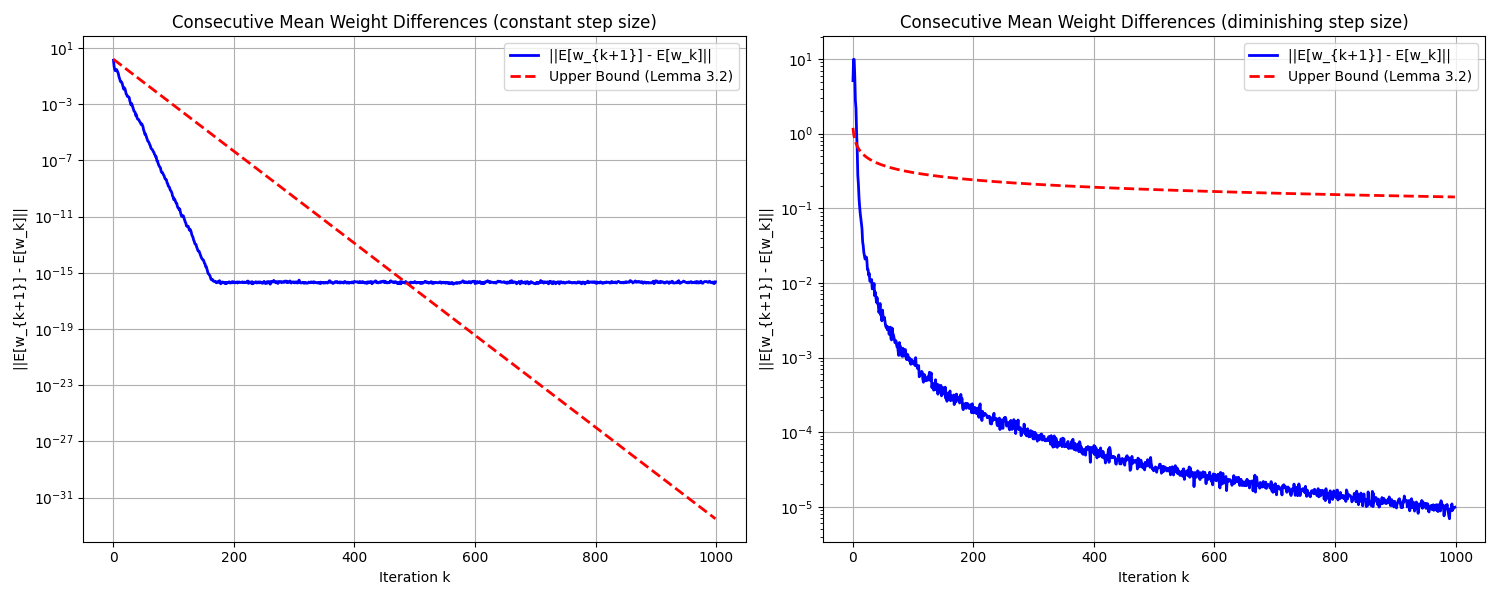
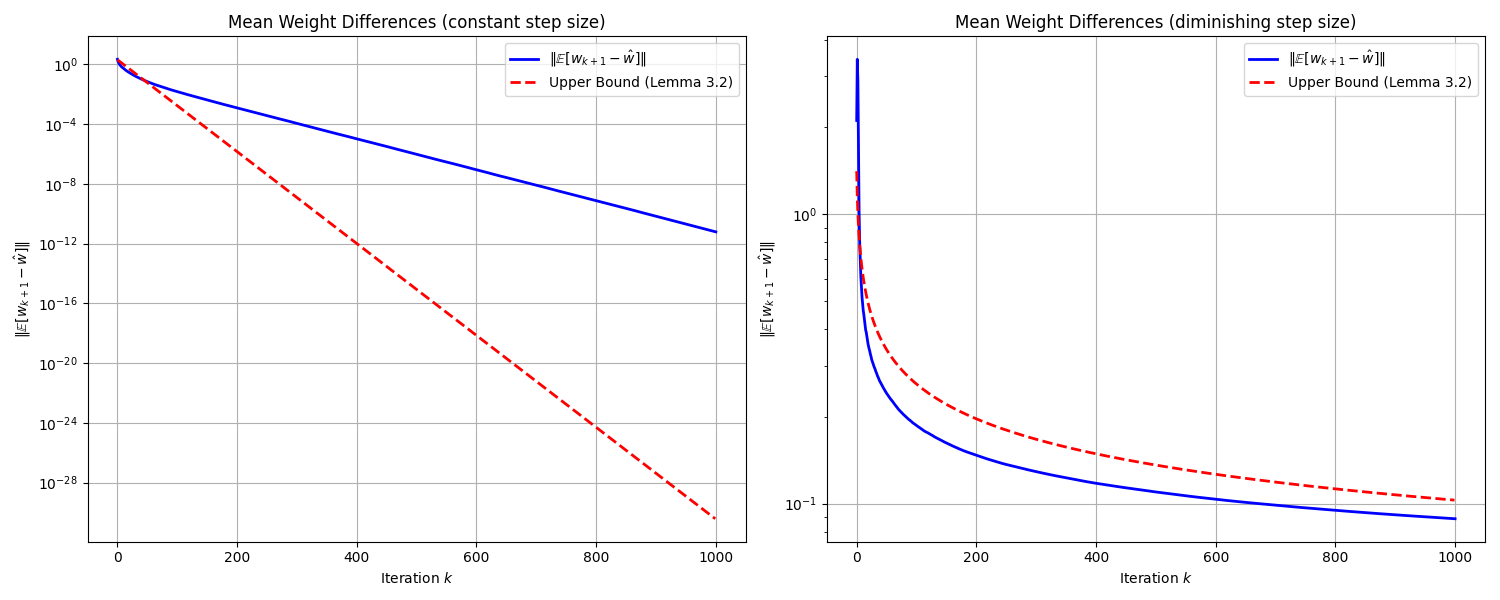
Implemented the second moment, and fixed some bugs with the first moment implementation

diff --git a/simulate_gd.py b/simulate_gd.py
@@ -2,6 +2,15 @@ import numpy as np
 import matplotlib.pyplot as plt
 from scipy.linalg import null_space, svdvals
 
+def get_M2_sqrt(weight_distribution, p, n_samples):
+    if weight_distribution == 'uniform':
+        val = np.sqrt(1/3)
+    elif weight_distribution == 'bernoulli':
+        val = np.sqrt(p)
+    else:  # binary
+        val = np.sqrt(0.5)
+    return val * np.eye(n_samples)
+
 def get_step_sizes(n_iterations, X, step_type='constant'):
     """
     Generate step sizes satisfying Assumption 3.1(a)
@@ -48,16 +57,67 @@ def initialize_weights(X, initialization='orthogonal'):
 
 def get_minimum_nonzero_singular_value(X):
     """
-    Compute σ_min^+(X), the minimum non-zero singular value of X
+    Compute the minimum non-zero singular value of X
     """
     singular_values = svdvals(X)
     nonzero_singular_values = singular_values[singular_values > 1e-10]
     return np.min(nonzero_singular_values) if len(nonzero_singular_values) > 0 else 0
 
-def simulate_weighted_gd(X, Y, n_iterations=100, step_type='constant', initialization='orthogonal', 
-                        weight_distribution='uniform', p=0.2, n_simulations=10):  # increased simulations for better mean estimate
+def compute_S_alpha(A, X, Y, w_hat, alpha, M2_sqrt):
     """
-    Simulate randomly weighted gradient descent and compute consecutive weight differences
+    Compute the S_alpha operator from Lemma 3.3:
+    S_alpha(A) = (I - alpha X_hat)A(I - alpha X_hat) + alpha^2 X^T(Sigma_D ○ (XAX^T + (Y-Xw_hat)(Y-Xw_hat)^T))X
+    """
+    n_features = X.shape[1]
+    I = np.eye(n_features)
+    X_hat = M2_sqrt @ X
+    
+    # First term: (I - alpha X_hat)A(I - alpha X_hat)
+    term1 = (I - alpha * X.T @ (M2_sqrt @ M2_sqrt) @ X) @ A @ (I - alpha * X.T @ (M2_sqrt @ M2_sqrt) @ X)
+    
+    # Second term components
+    residual = Y - X @ w_hat
+    XAXt = X @ A @ X.T
+    residual_outer = np.outer(residual, residual)
+    
+    # Element-wise multiplication with Sigma_D (represented by M2_sqrt^2)
+    Sigma_D = M2_sqrt @ M2_sqrt
+    hadamard_term = Sigma_D * (XAXt + residual_outer)
+    
+    # Complete second term
+    term2 = (alpha**2) * X.T @ hadamard_term @ X
+    
+    return term1 + term2
+
+def compute_second_moment_bound(X, Y, w_init, w_hat, alphas, weight_distribution, p, n_samples):
+    """
+    Compute the upper bound on the second moment from Lemma 3.3
+    """
+    # Compute required norms and values
+    X_norm = np.linalg.norm(X, ord=2)
+    M2_sqrt = get_M2_sqrt(weight_distribution, p, n_samples)
+    Sigma_D_norm = np.linalg.norm(M2_sqrt @ M2_sqrt, ord=2)
+    sigma_min_plus = get_minimum_nonzero_singular_value(X.T @ X)
+    w1_diff_norm = np.linalg.norm(w_init - w_hat)
+    residual_norm = np.linalg.norm(Y - X @ w_hat)
+    
+    n_iterations = len(alphas)
+    rho_bound = np.zeros(n_iterations)
+    
+    # Compute cumulative sum of alphas for the exponential term
+    cumsum_alphas = np.cumsum(alphas)
+    
+    # Compute bound for each iteration k ≥ 1
+    for k in range(1, n_iterations):  # Start from k=1
+        exp_term = np.exp(-sigma_min_plus * cumsum_alphas[k-1])
+        rho_bound[k] = 2 * (alphas[k]**2) * (X_norm**3) * Sigma_D_norm * exp_term * w1_diff_norm * residual_norm
+    
+    return rho_bound
+
+def simulate_weighted_gd(X, Y, n_iterations=100, step_type='constant', initialization='orthogonal', 
+                        weight_distribution='uniform', p=0.2, n_simulations=50):
+    """
+    Simulate randomly weighted gradient descent and compute moments
     """
     n_samples, n_features = X.shape
     alphas = get_step_sizes(n_iterations, X, step_type)
@@ -90,24 +150,51 @@ def simulate_weighted_gd(X, Y, n_iterations=100, step_type='constant', initializ
             w = (I_features - alphas[k] * X.T @ D_k_squared @ X) @ w + alphas[k] * X.T @ D_k_squared @ Y
             all_weights[sim, k+1] = w
     
-    # First compute mean weights across simulations
-    mean_weights = np.mean(all_weights, axis=0)  # shape: (n_iterations + 1, n_features)
+    # Compute the true solution
+    M_2_sqrt = get_M2_sqrt(weight_distribution, p, n_samples)
+    X_hat = M_2_sqrt @ X
+    Y_hat = M_2_sqrt @ Y
+    w_hat = np.linalg.pinv(X_hat) @ Y_hat
+
+    # Compute differences from the true solution
+    all_diffs = all_weights - w_hat
+
+    # Compute first moment (mean)
+    mean_weights = np.mean(all_diffs, axis=0)
+    first_moment = np.linalg.norm(mean_weights, axis=1)
     
-    # Then compute consecutive differences of means ||E[w_{k+1}] - E[w_k]||
-    consecutive_diffs = np.linalg.norm(mean_weights[1:] - mean_weights[:-1], axis=1)
+    # Compute empirical second moment
+    second_moment = np.zeros(n_iterations + 1)
+    second_moment_matrices = np.zeros((n_iterations + 1, n_features, n_features))
     
-    # Compute upper bound from Lemma 3.2
-    sigma_min_plus = get_minimum_nonzero_singular_value(X)
-    cumsum_alphas = np.cumsum(alphas)
-    upper_bound = np.exp(-sigma_min_plus * cumsum_alphas) * np.linalg.norm(w_init - mean_weights[-1])
+    for k in range(n_iterations + 1):
+        diffs_k = all_diffs[:, k, :]  # (n_simulations, n_features)
+        # Compute average outer product for current iteration
+        second_moment_matrices[k] = np.mean([np.outer(diff, diff) for diff in diffs_k], axis=0)
+        
+        if k > 0:
+            # Get the previous second moment matrix and apply S_alpha to it
+            prev_moment = second_moment_matrices[k-1]
+            S_applied = compute_S_alpha(prev_moment, X, Y, w_hat, alphas[k-1], M_2_sqrt)
+            
+            # Compute the difference and its Frobenius norm
+            diff_matrix = second_moment_matrices[k] - S_applied
+            second_moment[k] = np.linalg.norm(diff_matrix, 'fro')
     
-    return consecutive_diffs, upper_bound
+    # First iteration has no previous moment to compare with
+    second_moment[0] = np.linalg.norm(second_moment_matrices[0], 'fro')
+    
+    # Compute theoretical bounds
+    first_moment_bound = np.exp(-get_minimum_nonzero_singular_value(X.T @ X) * np.cumsum(np.append(0, alphas))) * np.linalg.norm(w_init - w_hat)
+    second_moment_bound = compute_second_moment_bound(X, Y, w_init, w_hat, alphas, weight_distribution, p, n_samples)
+    
+    return first_moment, first_moment_bound, second_moment, second_moment_bound
 
 def main():
     # Generate synthetic data
     np.random.seed(42)
     n_samples = 50
-    n_features = 200
+    n_features = 90
     
     # Generate random data matrix X
     X = np.random.randn(n_samples, n_features)
@@ -123,27 +210,38 @@ def main():
     # Run simulations with different step types
     step_types = ['constant', 'diminishing']
     
-    plt.figure(figsize=(15, 6))
+    plt.figure(figsize=(15, 12))
     
     for i, step_type in enumerate(step_types):
         # Run simulation
-        consecutive_diffs, upper_bound = simulate_weighted_gd(
+        first_moment, first_moment_bound, second_moment, second_moment_bound = simulate_weighted_gd(
             X, Y, n_iterations=1000, step_type=step_type,
             initialization='orthogonal', weight_distribution='uniform')
         
-        # Plot results
-        plt.subplot(1, 2, i+1)
-        plt.semilogy(consecutive_diffs, 'b-', linewidth=2, label='||E[w_{k+1}] - E[w_k]||')
-        plt.semilogy(upper_bound, 'r--', linewidth=2, label='Upper Bound (Lemma 3.2)')
+        # Plot first moment results
+        plt.subplot(2, 2, i+1)
+        plt.semilogy(first_moment, 'b-', linewidth=2, label=r'$\|\mathbb{E}[w_k - \hat{w}]\|$')
+        plt.semilogy(first_moment_bound, 'r--', linewidth=2, label='First moment bound (Lemma 3.2)')
+        plt.title(f'First Moment Convergence ({step_type} step size)')
+        plt.xlabel('Iteration $k$')
+        plt.ylabel('First moment')
+        plt.legend()
+        plt.grid(True)
         
-        plt.title(f'Consecutive Mean Weight Differences ({step_type} step size)')
-        plt.xlabel('Iteration k')
-        plt.ylabel('||E[w_{k+1}] - E[w_k]||')
+        # Plot second moment results
+        plt.subplot(2, 2, i+3)
+        plt.semilogy(second_moment, 'b-', linewidth=2, 
+                    label=r'$\|\mathbb{E}[(w_k - \hat{w})(w_k - \hat{w})^\top]\|_F$')
+        plt.semilogy(second_moment_bound, 'r--', linewidth=2,
+                    label='Second moment bound (Lemma 3.3)')
+        plt.title(f'Second Moment Convergence ({step_type} step size)')
+        plt.xlabel('Iteration $k$')
+        plt.ylabel('Frobenius norm of second moment')
         plt.legend()
         plt.grid(True)
     
     plt.tight_layout()
-    plt.savefig('lemma_3_2_consecutive_means.png')
+    plt.savefig('lemma_3_2_and_3_3.png')
     plt.close()
 
 if __name__ == "__main__":
